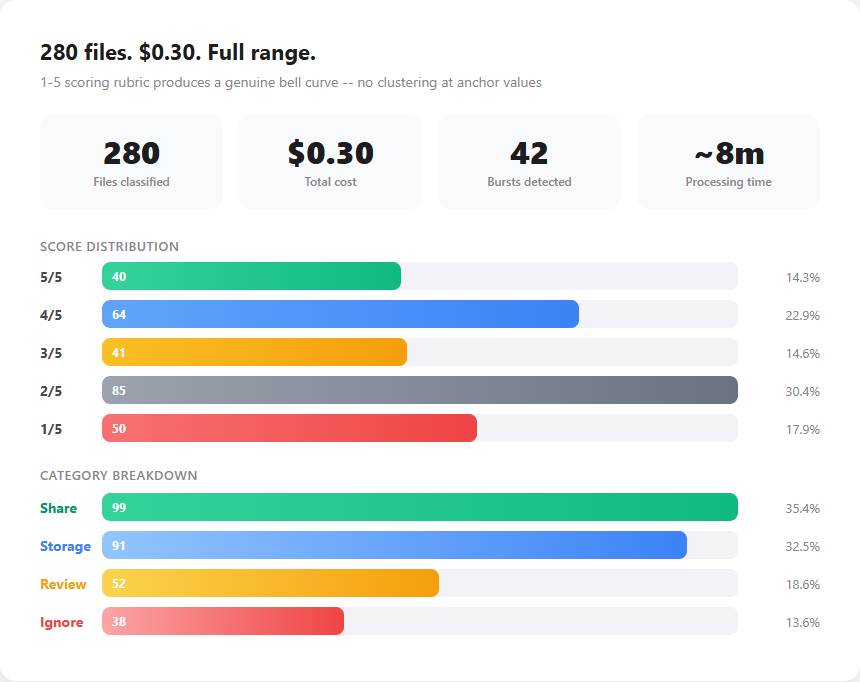
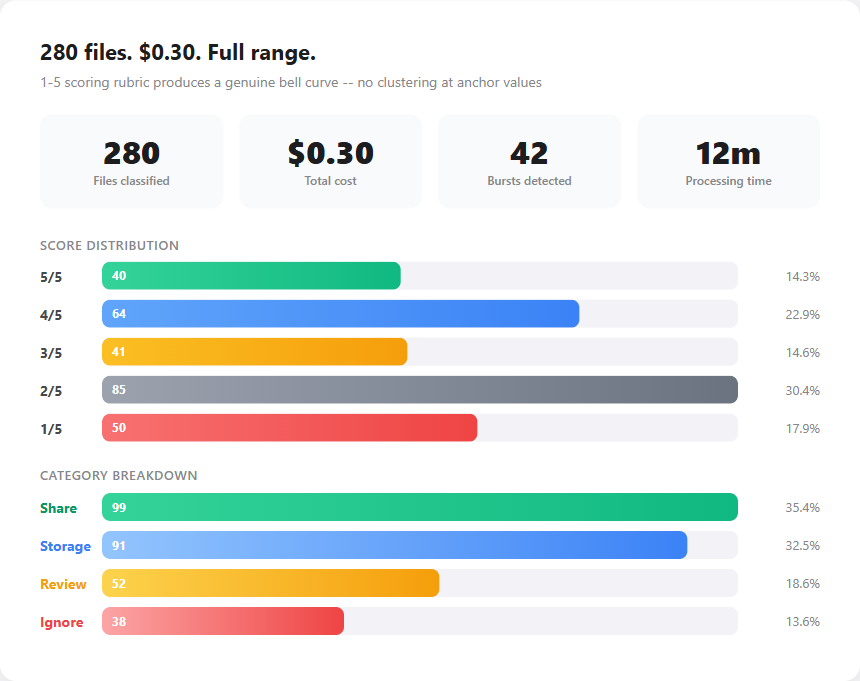
Update demo times to actual measured 12m 21s (280 files, 10 workers)

diff --git a/assets/demo.html b/assets/demo.html
@@ -412,7 +412,7 @@
         <span class="t-dim">   </span>
         <span class="t-bar-track"><span class="t-bar-fill t-bar-green" style="width:100%"></span></span>
         <span class="t-green"> 100%</span>
-        <span class="t-dim"> | 280/280 | 7m 48s</span>
+        <span class="t-dim"> | 280/280 | 12m 21s</span>
       </div>
 
       <div class="t-separator">────────────────────────────────────────────────────────────────</div>
@@ -454,7 +454,7 @@
 
       <div class="t-section">
         <div class="t-line">
-          <span class="t-dim">   Time: 7m 48s (10 parallel workers)</span>
+          <span class="t-dim">   Time: 12m 21s (10 parallel workers)</span>
         </div>
         <div class="t-line">
           <span class="t-dim">   Est. cost:</span>
@@ -609,7 +609,7 @@
         <div class="stat-label">Bursts detected</div>
       </div>
       <div class="stat-box">
-        <div class="stat-number">~8m</div>
+        <div class="stat-number">12m</div>
         <div class="stat-label">Processing time</div>
       </div>
     </div>

diff --git a/README.md b/README.md
@@ -14,7 +14,7 @@ Sort 1,000 family photos in 10 minutes for $1.30. Extract coding standards from 
 
 ## Demo
 
-**280 photos + videos classified in under 8 minutes for $0.30** (10 parallel workers, Gemini Flash).
+**280 photos + videos classified in 12 minutes for $0.30** (10 parallel workers, Gemini Flash).
 
 <p align="center">
   <img src="https://raw.githubusercontent.com/bweller-lgtm/Taster/master/assets/demo_terminal.png" alt="Terminal output showing classification of 280 files" width="780">
